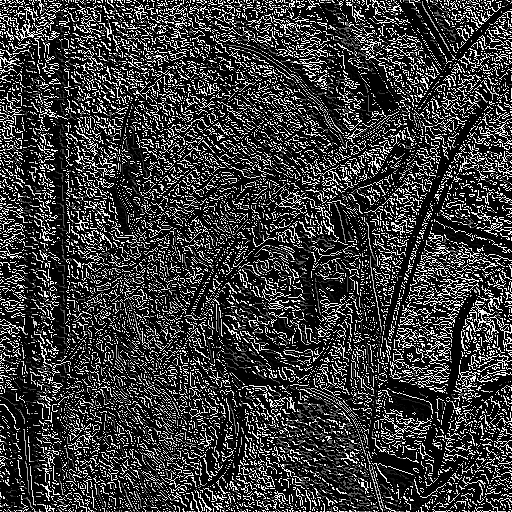
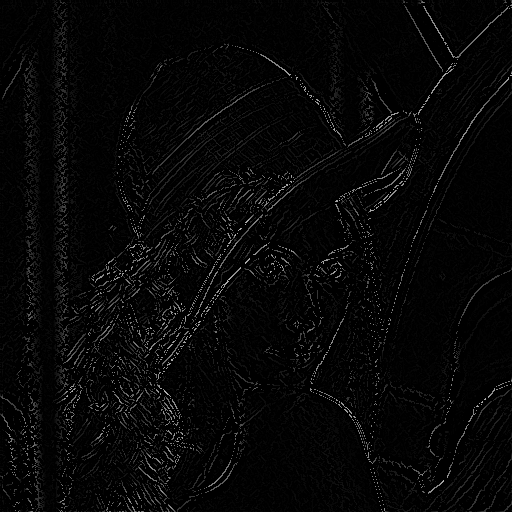
Somewhat works now

diff --git a/source/EdgeDetection/HysteresisThresholding.cpp b/source/EdgeDetection/HysteresisThresholding.cpp
@@ -14,7 +14,6 @@ namespace EdgeDetection
         std::vector<Vector2Int> possibleEdgeMiddles = {};
         std::vector<Vector2Int> doneEdgeMiddles = {};
         Direction neighbourDirections[NUMBER_OF_DIRECTIONS] = {Direction::East, Direction::North, Direction::West, Direction::South};
-
         //all sure-edge pixels neighbouring possible-edge pixels are marked
 		for (int x = 0; x < width; x++)
 		{
@@ -37,7 +36,6 @@ namespace EdgeDetection
                 }
 			}
 		}
-
         // extend edges
         while(possibleEdgeMiddles.size() > 0)
         {
@@ -59,8 +57,6 @@ namespace EdgeDetection
             doneEdgeMiddles.push_back(currPos);
             possibleEdgeMiddles.pop_back();
         }
-
-
         // suppress all left pixels between maxVal and minVal
        	for (int x = 0; x < width; x++)
 		{
@@ -93,7 +89,7 @@ namespace EdgeDetection
 
     bool Contains(std::vector<Vector2Int>& vec, Vector2Int& elem)
     {
-        for(int i = vec.size()-1; i >=0; i--)
+		for(int i = vec.size()-1; i >=0; i--)
         {
             if(vec[i].x == elem.x && vec[i].y == elem.y) return true;
         }

diff --git a/app/App.cpp b/app/App.cpp
@@ -1,6 +1,5 @@
 #include <iostream>
 #include <EdgeDetection.hpp>
-#include <iostream>
 
 #define MAXVAL 180
 #define MINVAL 160
@@ -41,8 +40,8 @@ int main(int argc, char* argv[])
 	suppressNonMaximums(gradientIntensities, gradientDirections, suppressedIntensities);
 
 	// Threshold hystheresis
-	//PixelMatrix thresheld(pixelMatrix.getWidth(), pixelMatrix.getHeight());
-	//thresholdHysteresis(suppressedIntensities, MAXVAL, MINVAL, thresheld);
+	PixelMatrix thresheld(pixelMatrix.getWidth(), pixelMatrix.getHeight());
+	thresholdHysteresis(suppressedIntensities, MAXVAL, MINVAL, thresheld);
 
 	// Profit
 	Utility::saveImage(suppressedIntensities.toImage(), files.value().at(1).string());

diff --git a/include/EdgeDetection.hpp b/include/EdgeDetection.hpp
@@ -11,3 +11,7 @@
 #include "EdgeDetection/GradientCalculation.hpp"
 #include "EdgeDetection/InputParser.hpp"
 #include "EdgeDetection/HysteresisThresholding.hpp"
+#include "EdgeDetection/VerticalEdgeFilter.hpp"
+#include "EdgeDetection/HorizontalEdgeFilter.hpp"
+#include "EdgeDetection/SignedFilter.hpp"
+#include "EdgeDetection/GradientCalculation.hpp"
